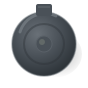
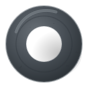
Контрактная доска: ring_pull — кольцо с дыркой, stamp_frame — рамка, README
Ревью Task 8 нашло два визуальных дефекта:
- ring_pull.png был сплошным диском вместо кованого кольца с прозрачным
  центром (through-hole). Перерисован SVG с evenodd fill-rule (outer r=19,
  inner r=9). Тест проверяет непрозрачность кольца вдоль горизонтальной
  полосы через центр (30%–70% ширины), а не по вертикали (дырка).
- stamp_frame.png был залитой красной карточкой вместо двойной рамки с
  прозрачной серединой. Перерисован SVG без fill, только stroke-контуры.
  Тест проверяет непрозрачность рамки по краям, а не в центре.
- Добавлен assets/contracts/README.md (пайплайн, карта файлов, приёмка).

diff --git a/alchemists-loop/assets/contracts/README.md b/alchemists-loop/assets/contracts/README.md
@@ -1,0 +1,85 @@
+# Контрактная доска — визуальные ассеты
+
+## Что здесь лежит
+
+```
+assets/contracts/
+├── board_planks.png       256×256   бесшовный тайл дубовой доски (фон доски)
+├── frame_h.png            256×40    горизонтальная рейка рамы (тайлится по X)
+├── frame_v.png            40×256    вертикальная рейка рамы (тайлится по Y)
+├── corner_iron.png        96×96     кованый железный уголок (прозрачные углы)
+├── shelf_bar.png          256×28    полка для контрактов (тайлится по X)
+├── sign_hang.png          600×168   вывеска на верёвках («Доска контрактов»)
+├── paper_daily.png        280×392   бумага дневного контракта (рваный край)
+├── paper_weekly.png       368×488   бумага недельного контракта (рваный край)
+├── paper_note.png         264×176   записка баффа (рваный край)
+├── nail_brass.png         64×64     латунный гвоздик с мягкой тенью
+├── seal_bronze.png        104×104   сургучная печать бронзового тира
+├── seal_silver.png        104×104   сургучная печать серебряного тира
+├── seal_gold.png          104×104   сургучная печать золотого тира
+├── stamp_frame.png        264×112   красная двойная рамка штампа (прозрачная середина)
+├── ring_pull.png          88×88     кованое кольцо — кнопка закрытия (дырка в центре)
+└── *.png.import                   sidecar-файлы Godot для каждого PNG
+```
+
+## Пайплайн генерации
+
+Ассеты генерируются SVG-скриптом вне репозитория:
+
+```
+tmp/contract-board-assets/
+├── gen_board.py           Python-генератор 15 SVG (stdlib, без <filter>/<pattern>)
+├── svg/                   промежуточные SVG
+└── export.gd              Godot-скрипт: SVG → PNG @2x (кроме тайлов @1x)
+```
+
+Порядок перегенерации:
+
+```bash
+# 1. SVG из генератора
+python tmp/contract-board-assets/gen_board.py
+
+# 2. PNG через Godot (ThorVG rasterizer)
+Godot_v4.7.2-stable_win64_console.exe --headless \
+    --path tmp/contract-board-assets \
+    --script tmp/contract-board-assets/export.gd
+```
+
+Масштаб: тайлы (board_planks, frame_h, frame_v, shelf_bar) = 1.0, спрайты = 2.0 (@2x).
+
+## Как доска использует ассеты
+
+`game/sigil/contract_board.gd` (Task 9/10):
+
+- **Фон**: `board_planks.png` тайлится в `TextureRect` с `stretch_mode = TILE`
+- **Рама**: `frame_h.png` / `frame_v.png` тайлятся по своей оси; `corner_iron.png` — в 4 углах
+- **Полка**: `shelf_bar.png` тайлится по X под каждым рядом контрактов
+- **Вывеска**: `sign_hang.png` висит на верёвках сверху доски
+- **Контракты**: `paper_daily.png` / `paper_weekly.png` — подложка карточки; `paper_note.png` — записка баффа
+- **Крепёж**: `nail_brass.png` — гвоздь в каждом углу бумаги
+- **Печати**: `seal_{bronze,silver,gold}.png` — на выполненном контракте
+- **Штамп**: `stamp_frame.png` — рамка на выполненном контракте (прозрачная середина показывает бумагу)
+- **Кольцо**: `ring_pull.png` — кнопка закрытия попапа (дырка в центре)
+
+## Ограничения, которые уже стоили отладки
+
+- ThorVG не поддерживает `<filter>` и `<pattern>` — все эффекты запекаются
+  в SVG-примитивах (градиенты, линии, полигоны).
+- `stamp_frame.png` — рамка с прозрачным интерьером, а не залитый прямоугольник.
+  Тест проверяет непрозрачность рамки по краям, а не центра.
+- `ring_pull.png` — кольцо с прозрачной дыркой (through-hole), а не сплошной диск.
+  Тест проверяет непрозрачность кольца вдоль горизонтальной полосы через центр.
+- Тайлы обязаны быть бесшовными: тест сверяет дельту на шве с внутренней дельтой.
+- Бумага — рваный край через альфа-канал, а не нарисованная рамка: 4 угла
+  прозрачны, тело непрозрачно.
+
+## Приёмка
+
+Проверки лежат в `tests/suite_contract_board.gd` (§5.2–§5.5):
+
+- §5.2: бесшовность тайлов (seam <= inner * 1.6 + 0.02)
+- §5.3: cut-out форма (углы прозрачны, тело/рамка/кольцо непрозрачно)
+- §5.3: бумага с градиентом и волокнами (не плоская)
+- §5.3: три печати — три разных картинки
+- §5.3: гвоздь на мягкой тени (частичная альфа)
+- §5.5: все 15 PNG присутствуют вDeclared размерах с .import sidecar
